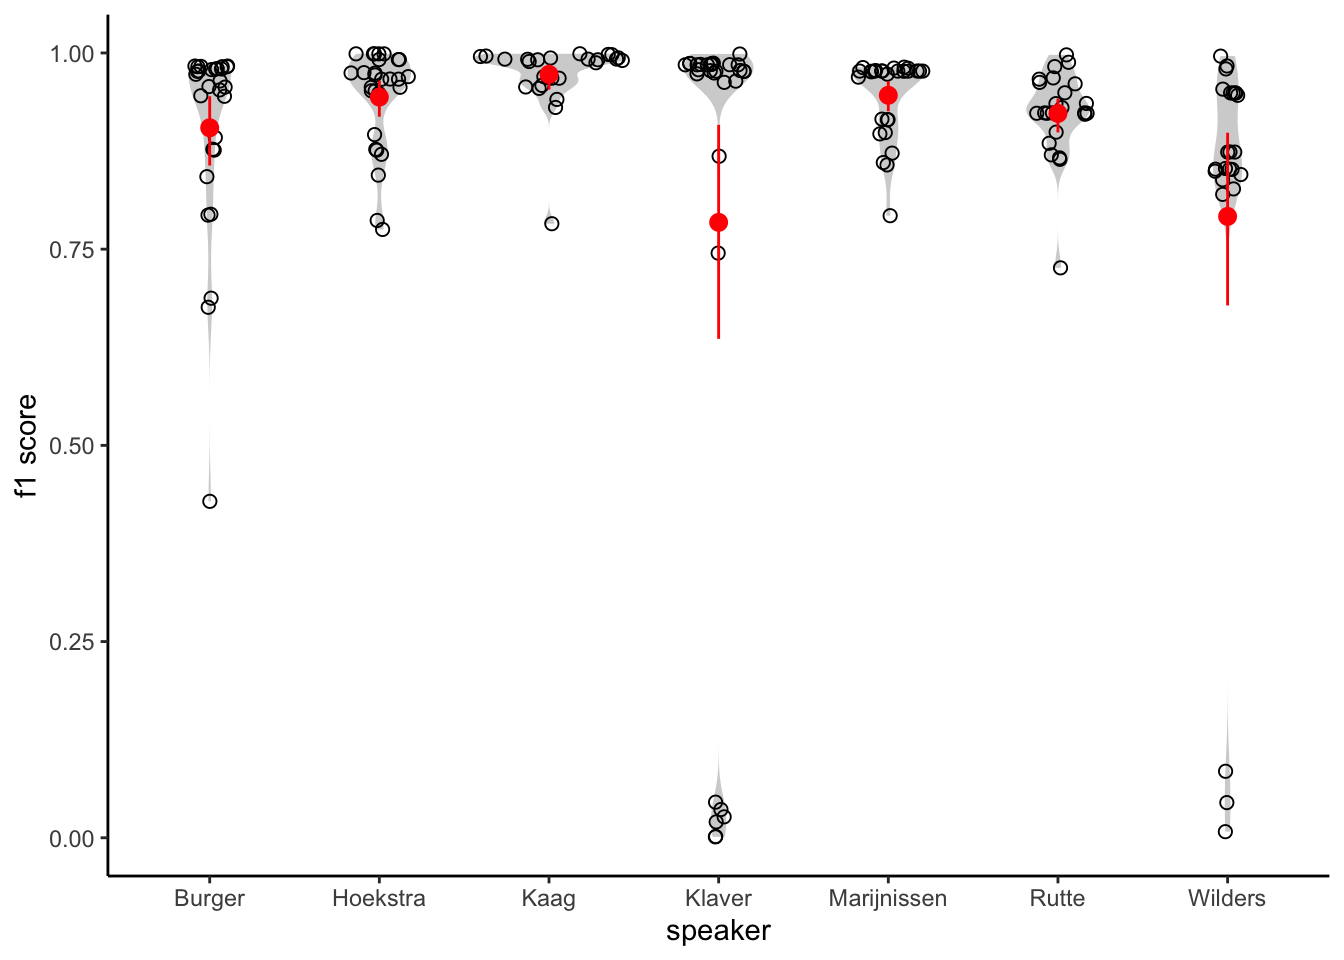
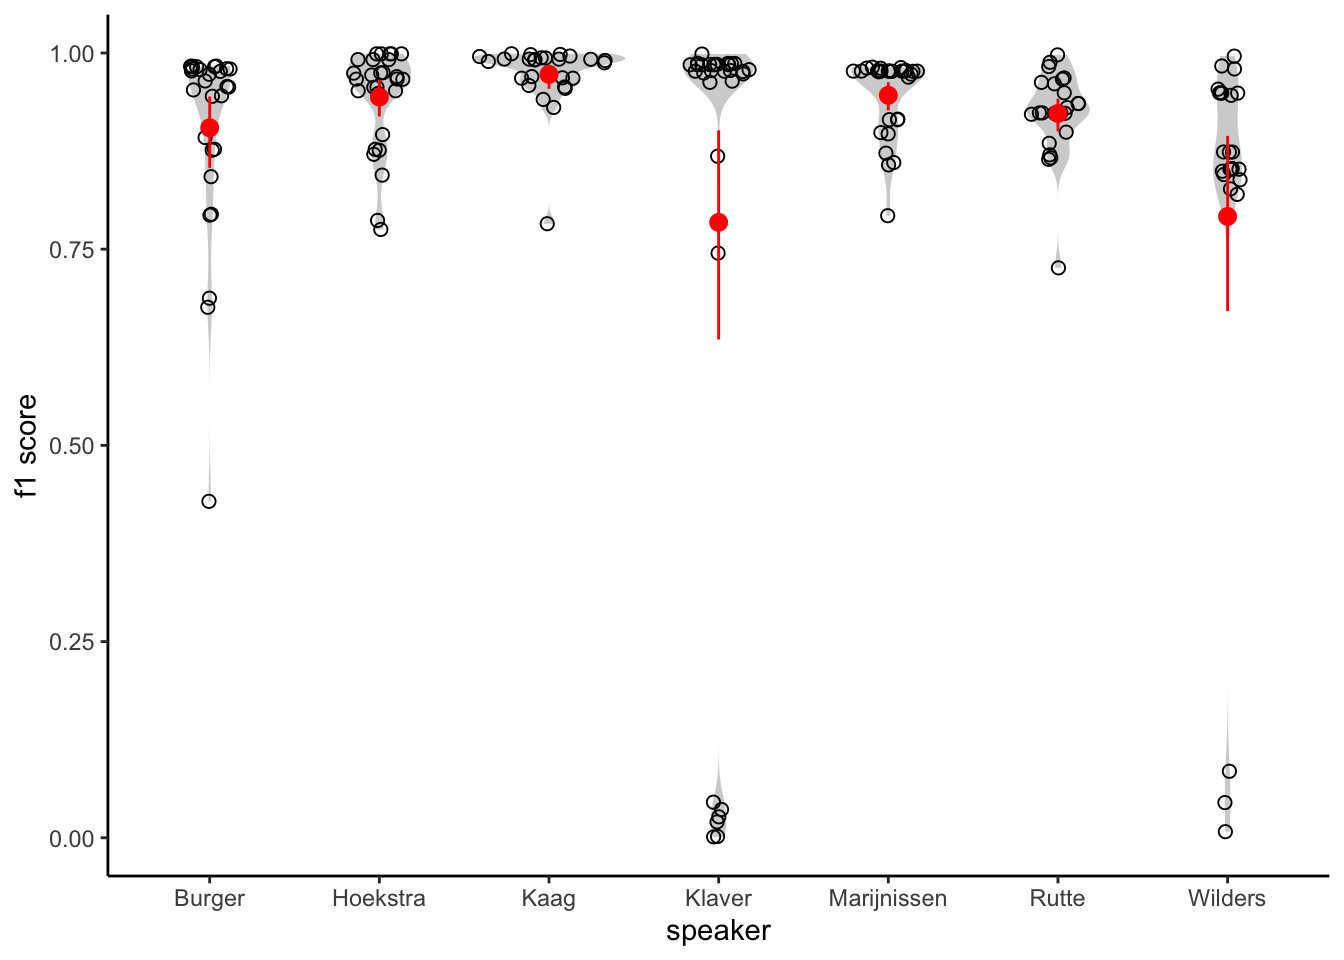
quarto notebook now specifies that analyses are about the unbalanced dataset

diff --git a/audio/quarto_mexca_performance_diarization.html b/audio/quarto_mexca_performance_diarization.html
@@ -129,8 +129,8 @@ code span.wa { color: #60a0b0; font-weight: bold; font-style: italic; } /* Warni
 <div class="cell">
 
 </div>
-<section id="the-test-dataset" class="level2">
-<h2 class="anchored" data-anchor-id="the-test-dataset">The test dataset</h2>
+<section id="the-test-dataset-unbalanced" class="level2">
+<h2 class="anchored" data-anchor-id="the-test-dataset-unbalanced">The test dataset (unbalanced)</h2>
 <p>We have applied mexca’s audio pipeline on 42 audio files lasting from ~50 seconds to ~20 min and ranging from 2 to 7 individuals (the max number of speakers reported in the annotation file).</p>
 <p>The audio files are made by selecting and concatenating audio files for each single speaker up to the max decided number.</p>
 <p>This is an example of an audio featuring two individuals:</p>
@@ -139,7 +139,7 @@ code span.wa { color: #60a0b0; font-weight: bold; font-style: italic; } /* Warni
 <audio controls=""> <source src="output_wav/unbalanced/list_audio_2_60_unbalanced.wav" type="audio/mpeg"> Your browser does not support the audio tag;  for browser support, please see:  https://www.w3schools.com/tags/tag_audio.asp </audio>
 </div>
 </div>
-<p>To better investigate whether the <strong>duration</strong> of the <strong>speaking</strong> <strong>time</strong> of each <strong>speaker</strong> would affect performance, speakers’ speaking duration is manipulated to follow an exponential distribution.</p>
+<p>To better investigate whether the <strong>duration</strong> of the <strong>speaking</strong> <strong>time</strong> of each <strong>speaker</strong> would affect performance, speakers’ speaking duration is manipulated to follow an exponential distribution. For this reason, we refer to this dataset as <strong>inbalanced</strong>, i.e., speakers have different speaking time durations.</p>
 <p>For example, in this file we have 7 speakers, and the max duration for the speaker who speaks the most is ~600s (10min).</p>
 <div class="cell">
 <div class="cell-output-display">
